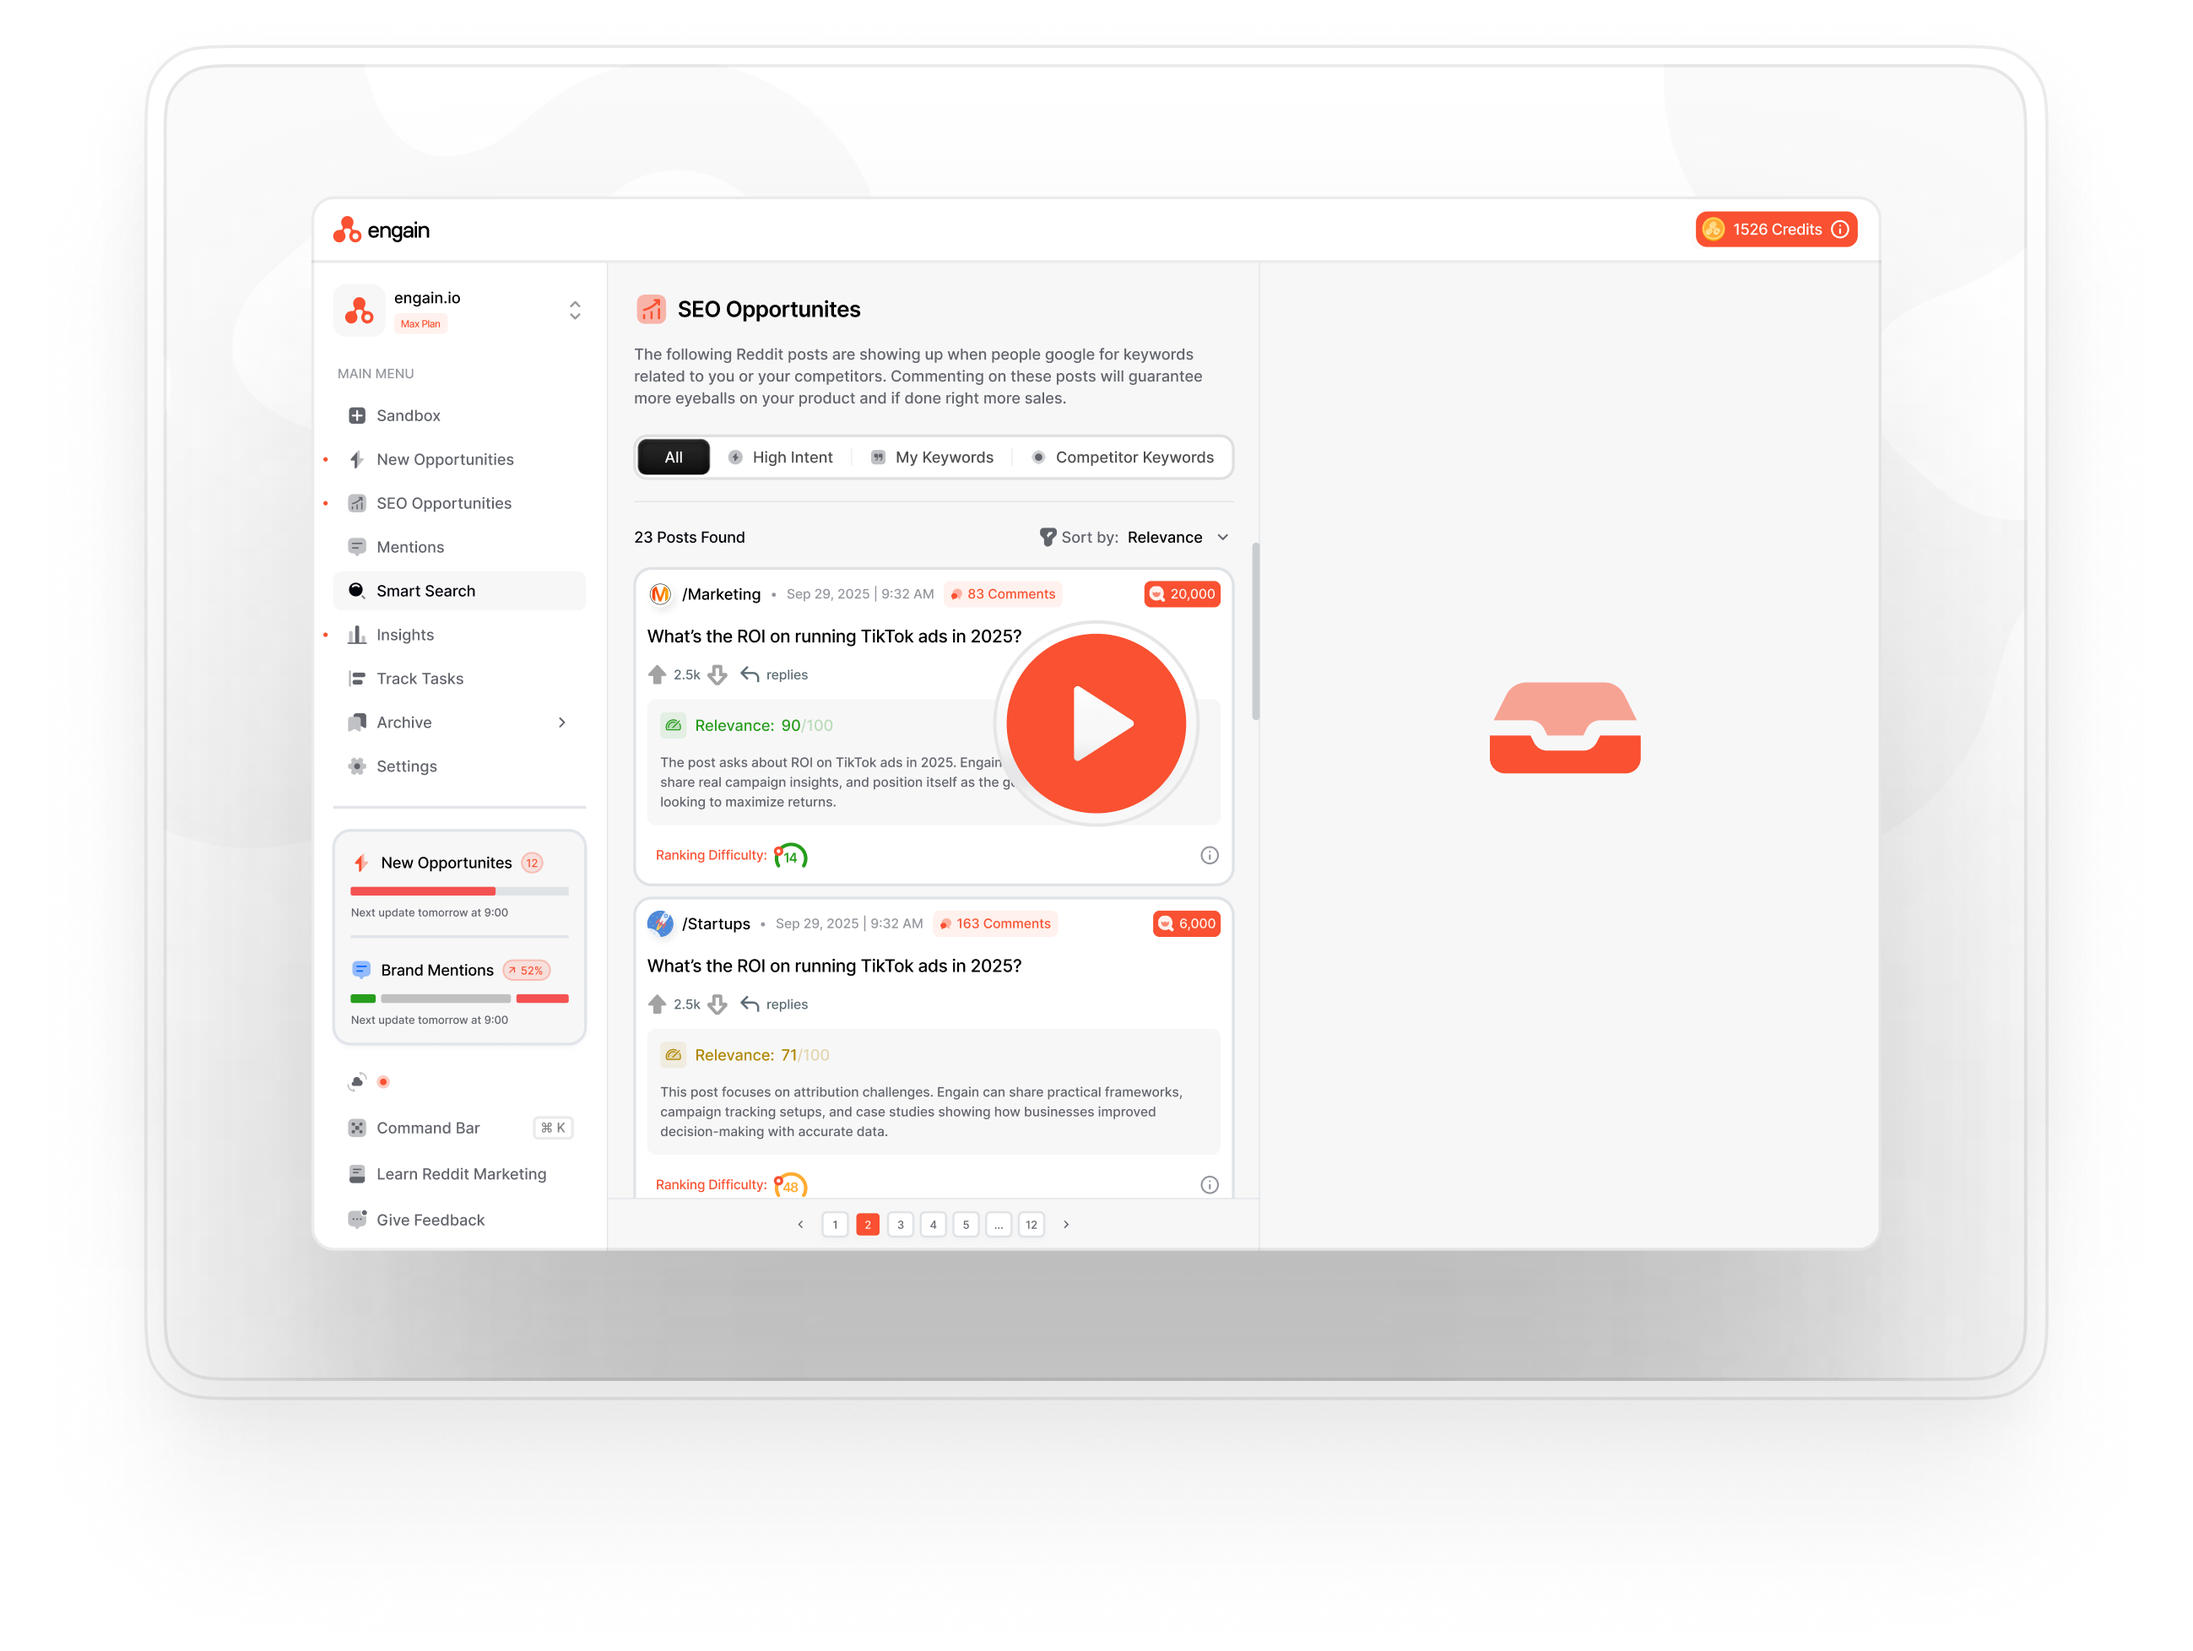
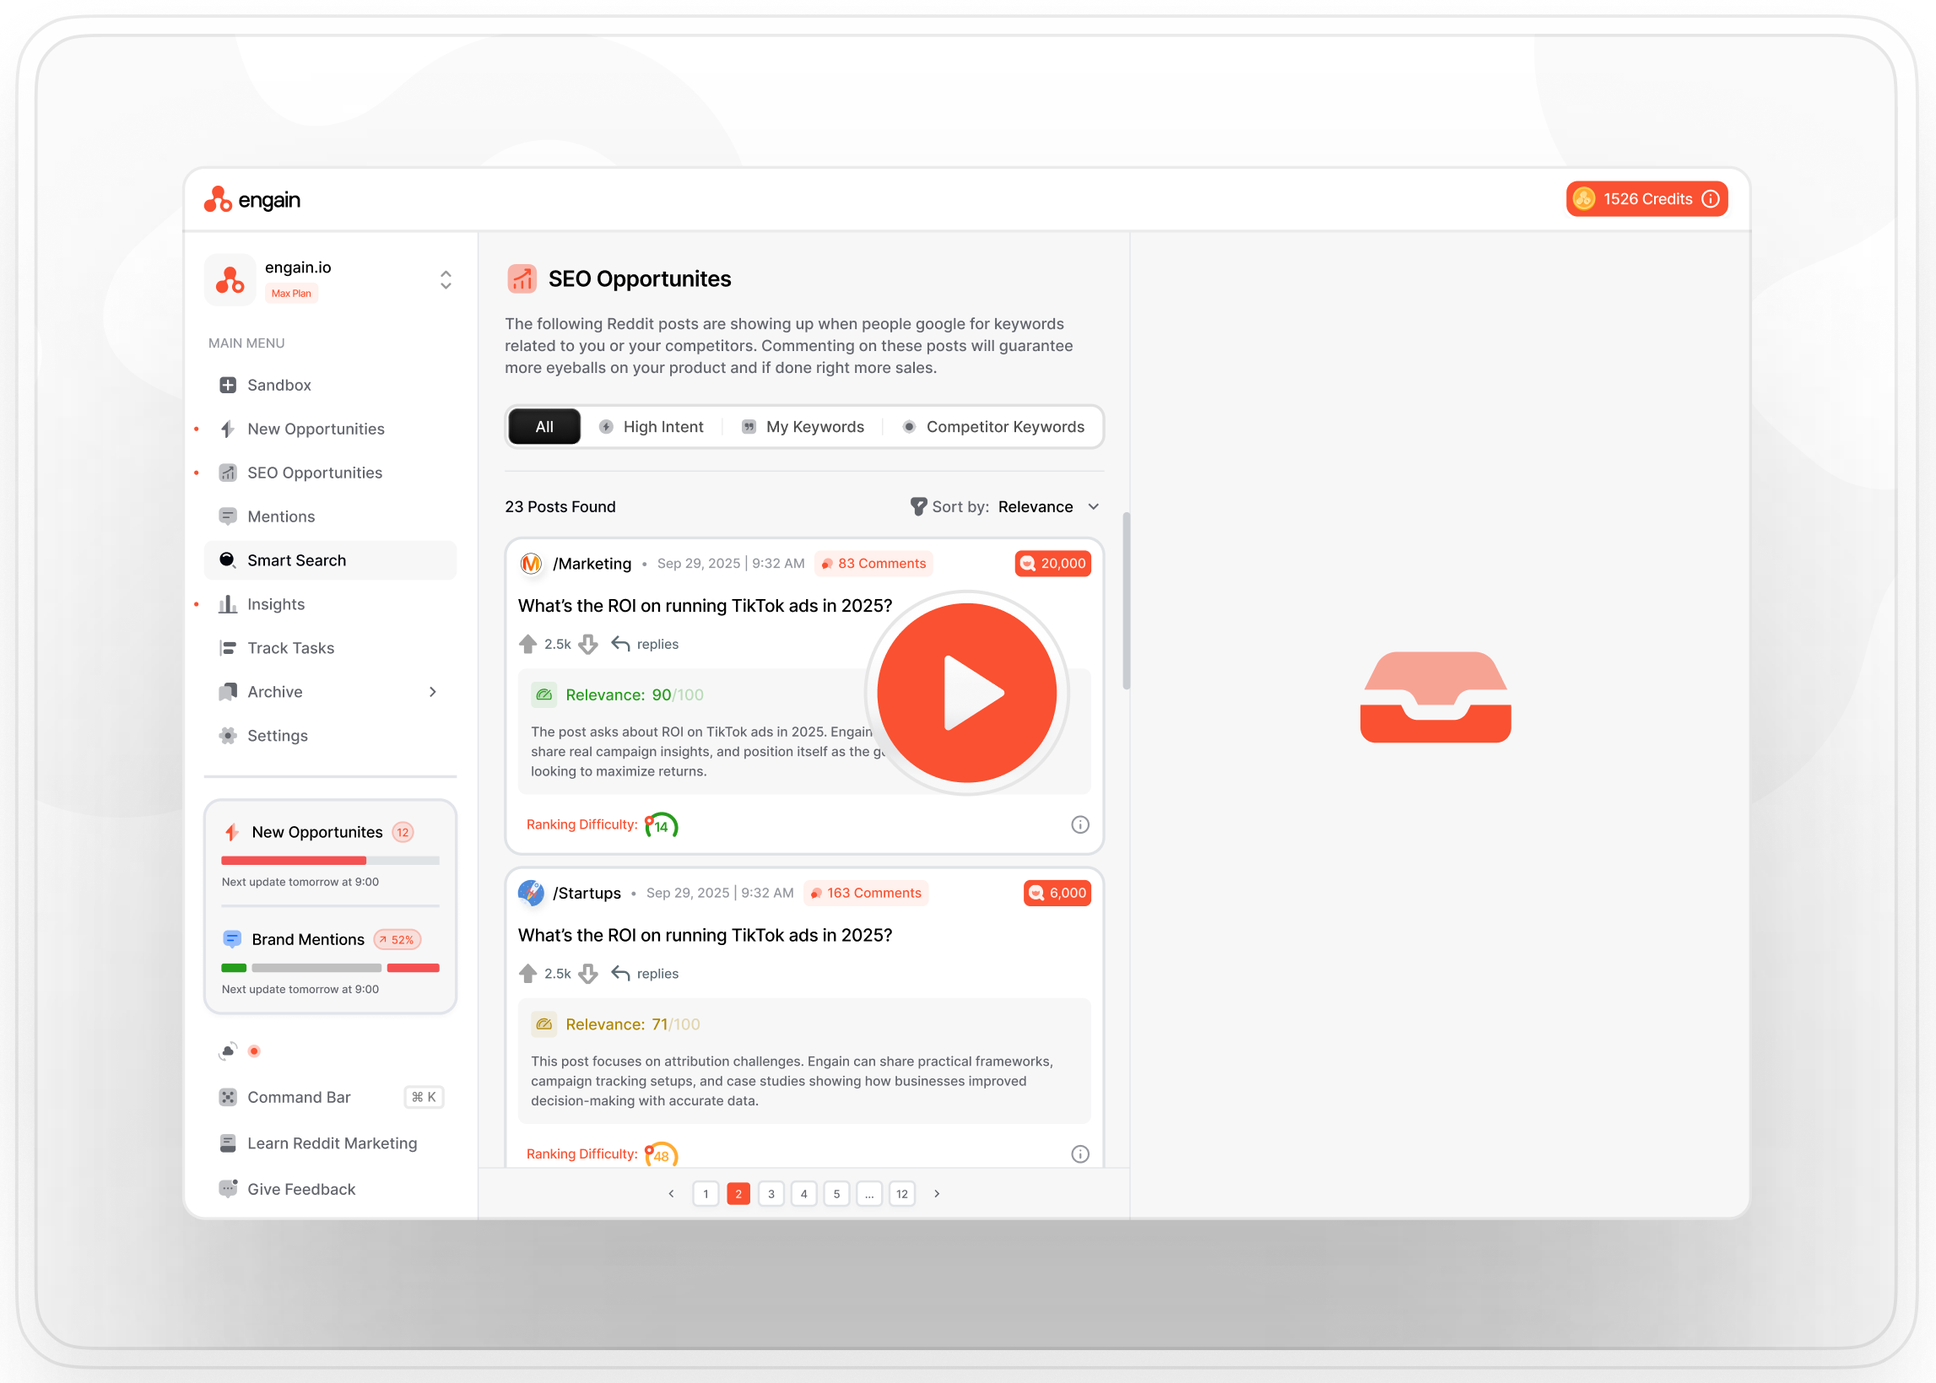
background

diff --git a/src/components/EngainHero.tsx b/src/components/EngainHero.tsx
@@ -4,10 +4,7 @@ export default function EngainHero() {
   return (
     <div className='hero-root'>
       {/* Background layers */}
-      <div className='bg-grid' />
-      <div className='bg-circle-top' />
-      <div className='bg-circle-bl' />
-      <div className='bg-circle-tr' />
+      <div></div>
 
       <div className='hero-content'>
         {/* ── NAVBAR ── */}
@@ -123,7 +120,11 @@ export default function EngainHero() {
               <li className='feature-item'>
                 <div className='feature-outline'>
                   <div className='w-3 h-3'>
-                    <img src='/accounts-dp.png' alt='' />
+                    <img
+                      src='/accounts-dp.png'
+                      alt=''
+                      className='w-full h-full'
+                    />
                   </div>
                 </div>
                 <span>

diff --git a/src/app/globals.css b/src/app/globals.css
@@ -28,10 +28,14 @@ body {
 /* ── Engain hero ── */
 .hero-root {
   font-family: var(--font-inter), sans-serif;
-  background: #ff5a36;
   min-height: 100vh;
   position: relative;
   overflow: hidden;
+  background-color: #ff5a36;
+  background-image: url("/bg.png");
+  background-size: cover;
+  background-position: center;
+  background-repeat: no-repeat;
 }
 
 .bg-grid {
@@ -296,8 +300,8 @@ body {
   color: rgb(0, 0, 0, 0.6);
   font-size: 13px;
   font-weight: 600;
-  padding: 7px 16px;
-  border-radius: 10px;
+  padding: 7px 7px;
+  border-radius: 8px;
   white-space: nowrap;
 }
 
